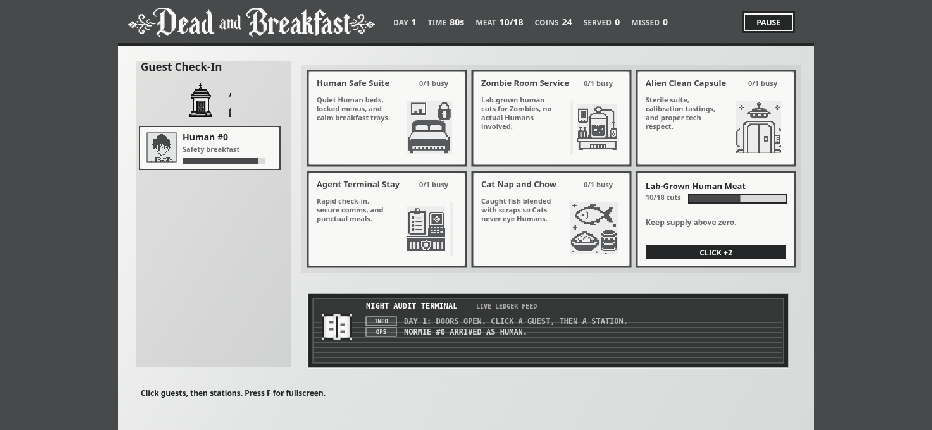
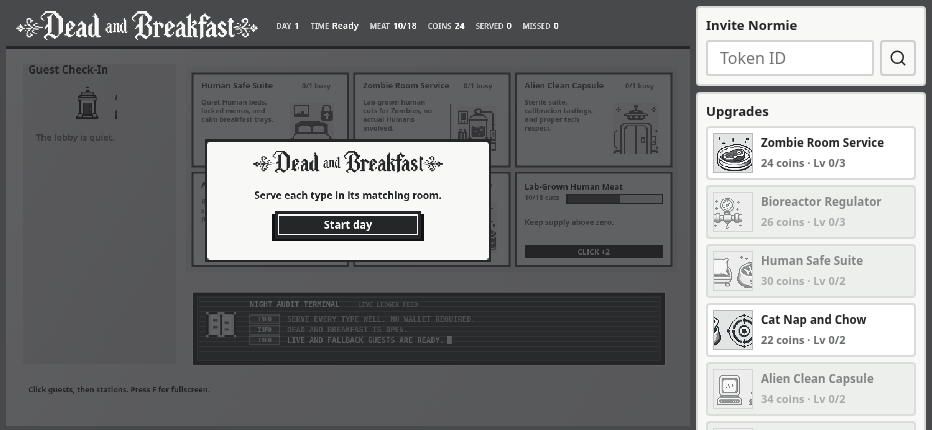
Keep mobile game aspect ratio

diff --git a/src/styles.css b/src/styles.css
@@ -47,9 +47,8 @@ button:disabled {
 
 .app-shell {
   position: relative;
-  display: grid;
-  grid-template-columns: minmax(0, 1fr) 340px;
-  align-content: start;
+  display: flex;
+  align-items: flex-start;
   gap: 18px;
   min-height: 100vh;
   padding: 18px;
@@ -79,6 +78,7 @@ button:disabled {
 }
 
 .game-column {
+  flex: 1 1 auto;
   min-width: 0;
 }
 
@@ -125,6 +125,7 @@ h2 {
 .stage-wrap {
   width: 100%;
   max-width: 1320px;
+  aspect-ratio: 1100 / 680;
   border: 3px solid var(--pixel);
   border-radius: 6px;
   background: var(--pixel);
@@ -142,7 +143,7 @@ h2 {
 .game-canvas {
   display: block;
   width: 100%;
-  height: auto;
+  height: 100%;
   image-rendering: pixelated;
   touch-action: none;
   user-select: none;
@@ -158,6 +159,7 @@ h2 {
 .side-panel {
   display: flex;
   flex-direction: column;
+  flex: 0 0 340px;
   gap: 12px;
   min-width: 0;
 }
@@ -293,12 +295,14 @@ h2 {
 
 @media (max-width: 1040px) {
   .app-shell {
-    grid-template-columns: 1fr;
+    flex-direction: column;
   }
 
   .side-panel {
     display: grid;
     grid-template-columns: repeat(2, minmax(0, 1fr));
+    flex: none;
+    width: 100%;
   }
 }
 
@@ -310,7 +314,8 @@ h2 {
   }
 
   .app-shell {
-    display: block;
+    display: flex;
+    flex-direction: column;
     min-height: 100dvh;
     padding: 6px;
     overflow-x: hidden;
@@ -365,8 +370,9 @@ h2 {
   }
 
   .app-shell {
-    display: grid;
-    grid-template-columns: minmax(0, calc(100vw - 246px)) minmax(224px, 1fr);
+    display: flex;
+    flex-direction: row;
+    align-items: flex-start;
     gap: 8px;
     height: 100dvh;
     min-height: 100dvh;
@@ -384,6 +390,7 @@ h2 {
 
   .side-panel {
     display: flex;
+    flex: 0 0 224px;
     max-height: calc(100dvh - 12px);
     overflow-y: auto;
     gap: 8px;
@@ -419,40 +426,116 @@ h2 {
   }
 
   .app-shell {
-    display: grid;
-    grid-template-columns: 1fr;
-    place-items: center;
+    display: flex;
+    flex-direction: row;
+    align-items: center;
+    justify-content: center;
     width: 100dvw;
     height: 100dvh;
     min-height: 100dvh;
-    padding: 0;
+    gap: 6px;
+    padding: 0 6px;
     overflow: hidden;
     background: var(--pixel);
   }
 
   .game-column {
-    display: grid;
-    place-items: center;
-    width: 100dvw;
+    display: flex;
+    align-items: center;
+    justify-content: center;
+    flex: 0 1 calc(100dvh * 1.617647);
+    width: auto;
+    max-width: calc(100dvw - 242px);
     height: 100dvh;
+    min-width: 0;
   }
 
   .stage-wrap {
-    display: grid;
-    place-items: center;
-    width: 100dvw;
-    height: 100dvh;
+    width: min(100%, calc(100dvh * 1.617647));
+    height: auto;
     max-width: none;
+    max-height: 100dvh;
     border: 0;
     border-radius: 0;
     box-shadow: none;
   }
 
   .game-canvas {
-    width: 100dvw;
-    max-width: 100dvw;
-    height: 100dvh;
+    width: 100%;
+    height: 100%;
     max-height: 100dvh;
+  }
+
+  .side-panel {
+    display: flex;
+    flex: 0 0 230px;
+    max-height: 100dvh;
+    padding: 6px 0;
+    overflow-y: auto;
+    gap: 6px;
+    color: var(--ink);
+  }
+
+  .panel-section {
+    padding: 8px;
+  }
+
+  h2 {
+    margin-bottom: 6px;
+    font-size: 0.82rem;
+  }
+
+  .lookup-form {
+    grid-template-columns: 1fr 36px;
+    gap: 6px;
+  }
+
+  .lookup-form input,
+  .icon-button {
+    height: 36px;
+  }
+
+  .icon-button {
+    width: 36px;
+  }
+
+  .upgrade-list {
+    gap: 5px;
+  }
+
+  .upgrade-card {
+    grid-template-columns: 42px 1fr;
+    gap: 6px;
+    padding: 5px;
+  }
+
+  .upgrade-sprite {
+    width: 40px;
+    height: 40px;
+  }
+
+  .upgrade-sprite img {
+    width: 280px;
+  }
+
+  .upgrade-card strong {
+    font-size: 0.72rem;
+  }
+
+  .upgrade-card small,
+  .form-note {
+    font-size: 0.68rem;
+  }
+}
+
+@media (orientation: landscape) and (max-height: 560px) and (max-width: 780px) {
+  .app-shell {
+    padding: 0;
+  }
+
+  .game-column {
+    flex-basis: calc(100dvh * 1.617647);
+    max-width: 100dvw;
   }
 
   .side-panel {